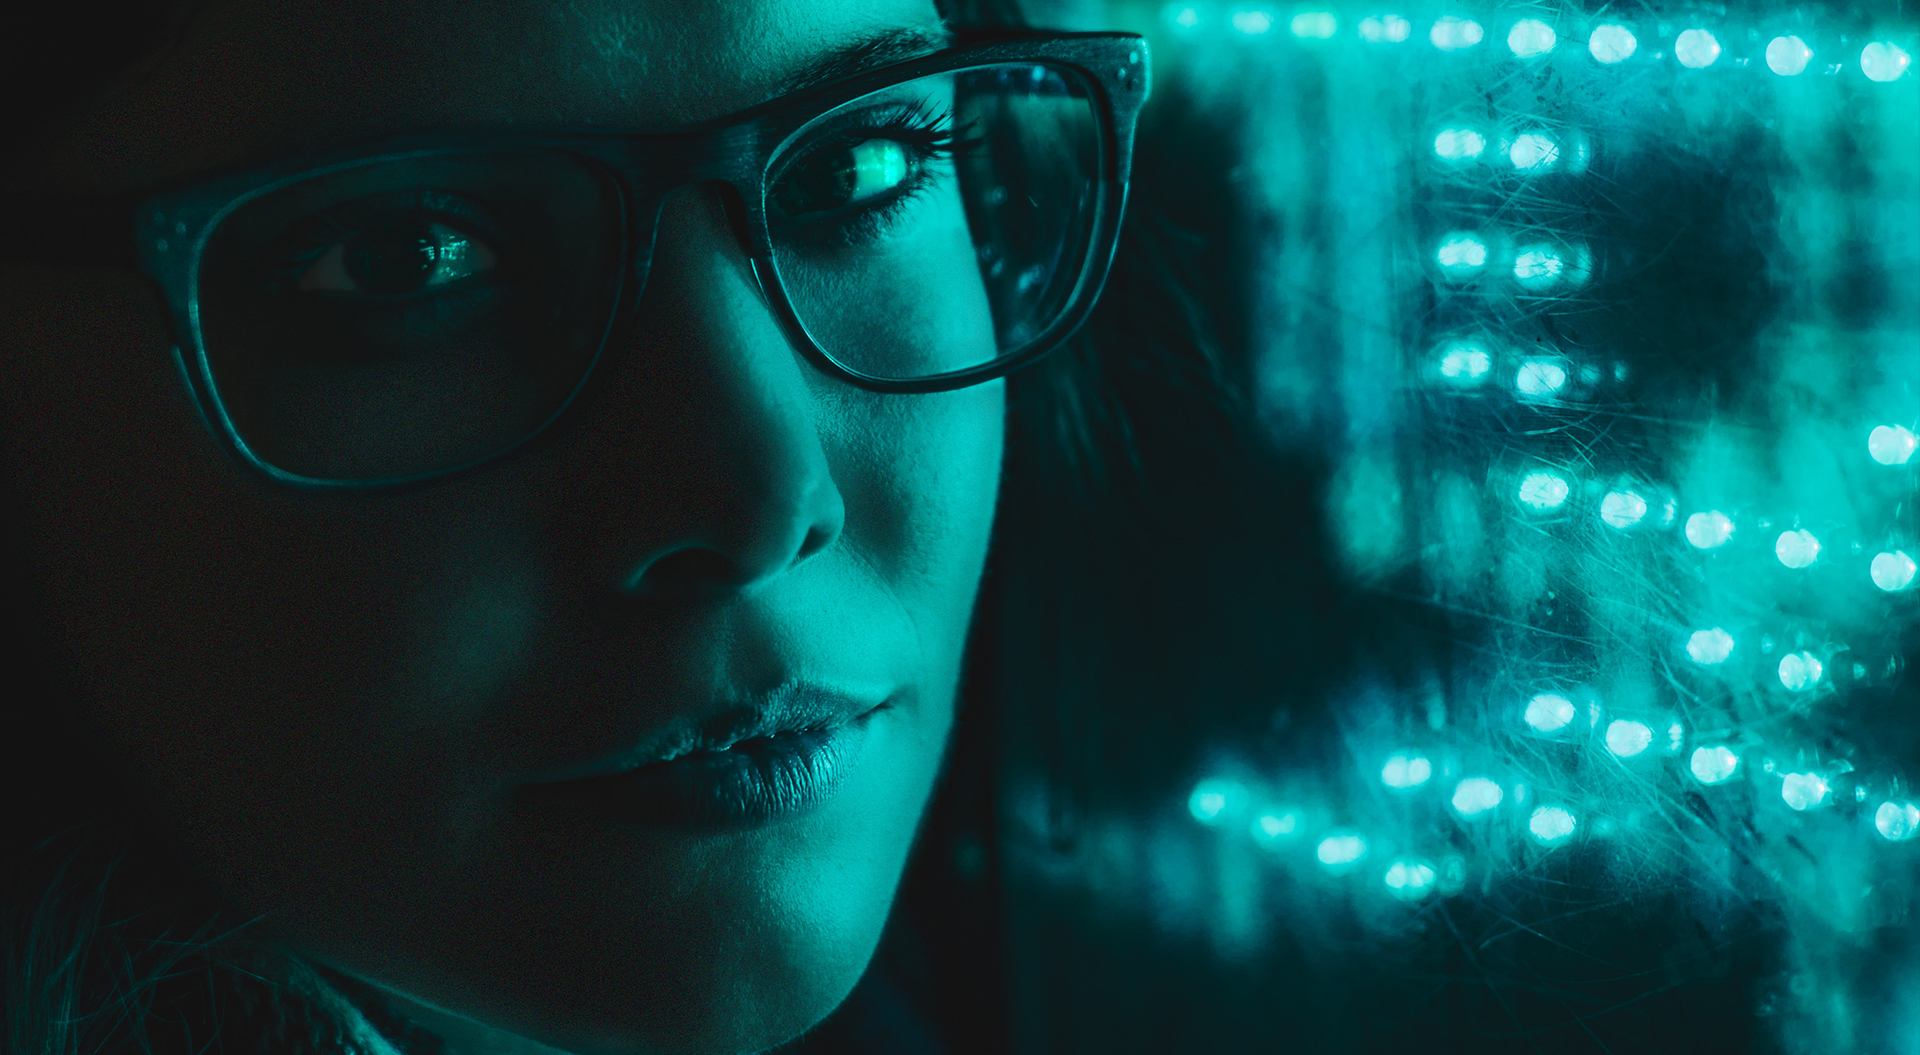
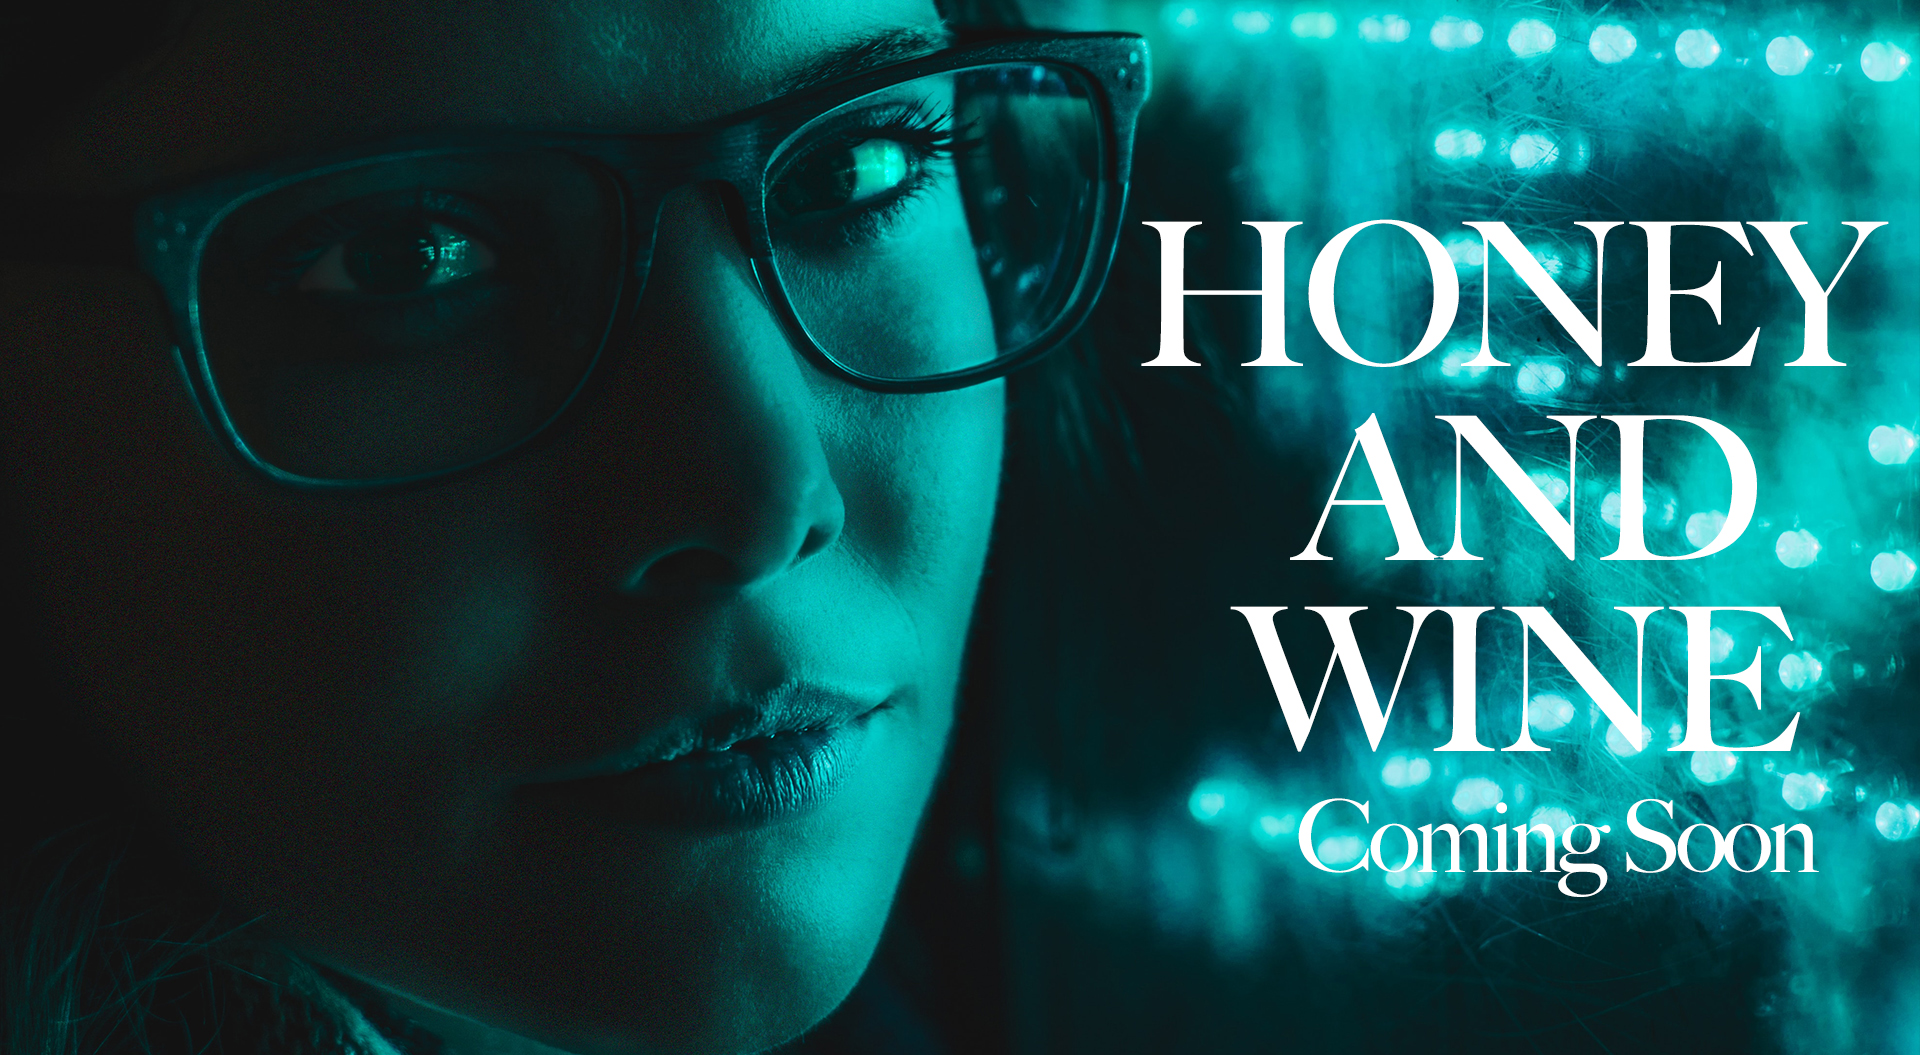
12

diff --git a/index.html b/index.html
@@ -1405,7 +1405,7 @@ video {
     <div class="table-cell">
       <div class="container">
         <!--<p class="display-6 color-d">Hello, world!</p>-->
-        <h5>HONEY <br/> AND WINE</h5>
+        <!-- <h5>HONEY <br/> AND WINE</h5> -->
       </div>
     </div>
   </div>
